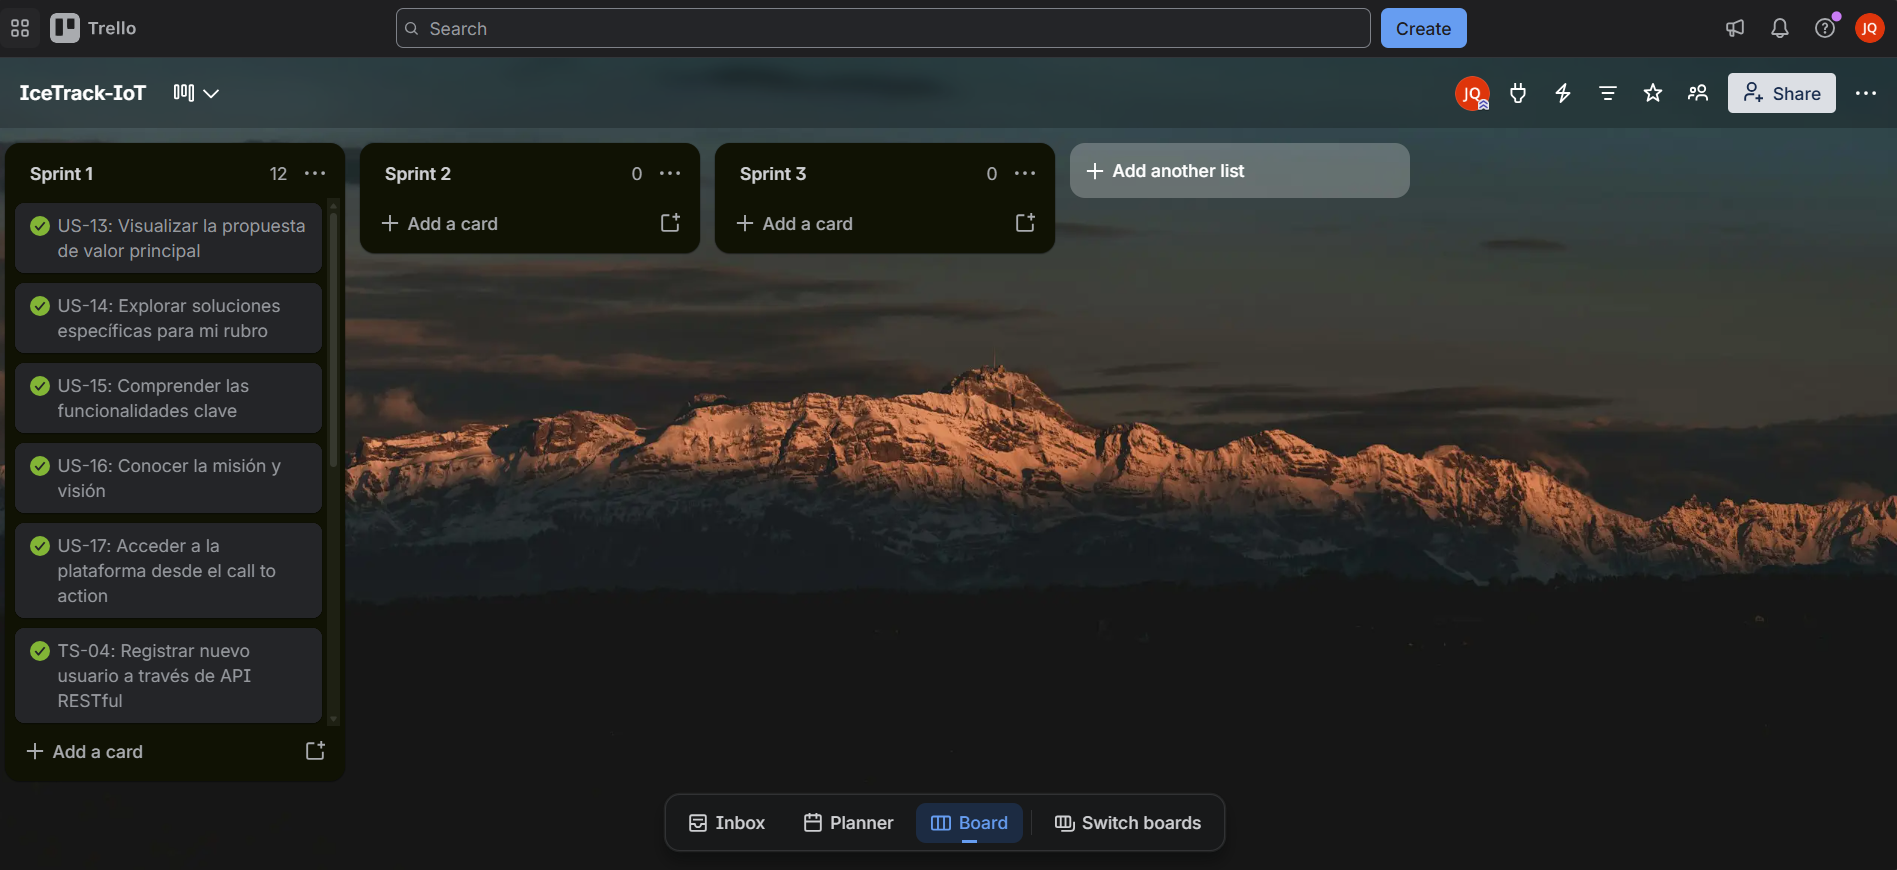
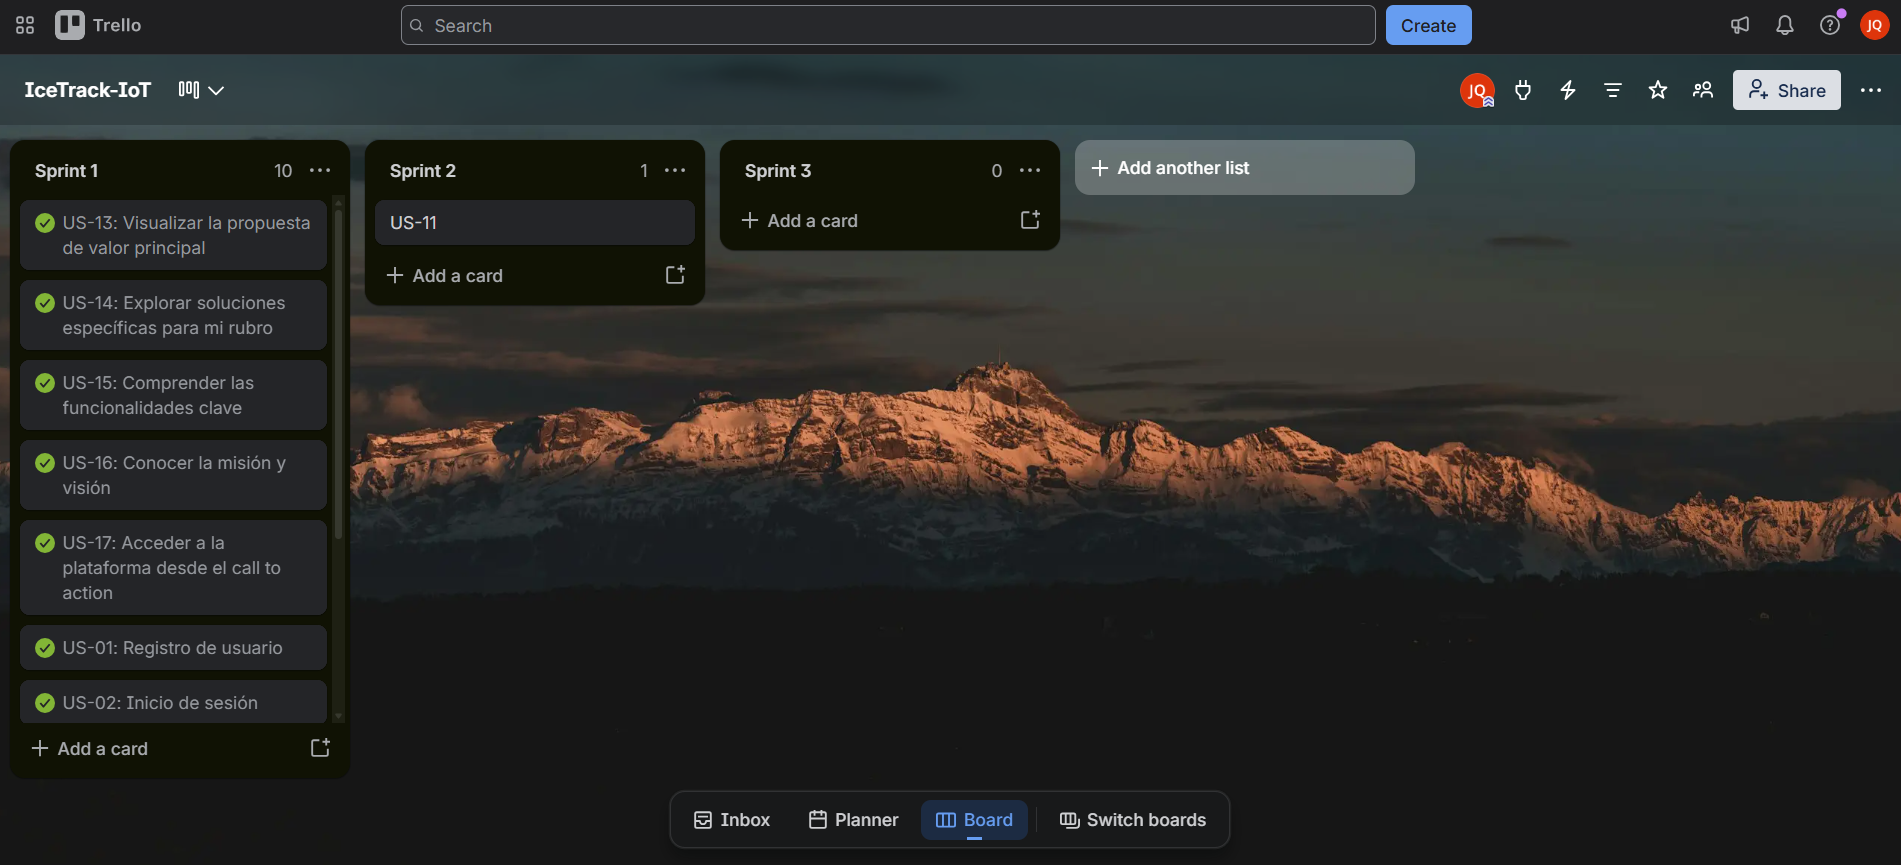
fix/sprint-backlog

diff --git a/README.md b/README.md
@@ -5779,7 +5779,7 @@ constexpr char DEVICE_ID[] = "ICE-0001";
 
 #### 6.2.1.1. Sprint Planning 1
 
-El Sprint Planning 1 es la reunión con la que el Scrum Team de IceTrack inicia su primer Sprint. Como punto de partida se usó el Product Backlog, del cual se tomaron los elementos de mayor prioridad que el equipo puede completar con su capacidad. El resultado de la reunión es un Sprint Goal compartido, medible y centrado en el valor para los usuarios, y el conjunto de User Stories y Technical Stories que lo hacen posible.
+El Sprint Planning 1 es la reunión con la que el Scrum Team de IceTrack inicia su primer Sprint. Como punto de partida se usó el Product Backlog, del cual se tomaron los elementos de mayor prioridad que el equipo puede completar con su capacidad. El resultado de la reunión es un Sprint Goal compartido, medible y centrado en el valor para los usuarios, y el conjunto de User Stories que lo hacen posible.
 
 Al ser el primer Sprint, el equipo no cuenta con un *Velocity* histórico. El *Velocity* del Sprint 1 se estableció a partir de la capacidad del equipo de siete integrantes y de la complejidad de los elementos priorizados, y será la referencia para calibrar la planificación de los siguientes Sprints.
 
@@ -5793,9 +5793,9 @@ Al ser el primer Sprint, el equipo no cuenta con un *Velocity* histórico. El *V
 | Sprint 0 Review Summary | No aplica. Sprint 1 es el primer Sprint de implementación, por lo que no existe un Sprint anterior que revisar. |
 | Sprint 0 Retrospective Summary | No aplica.  |
 | **Sprint Goal & User Stories** | |
-| Sprint 1 Goal | Nuestro enfoque está en ofrecer a los propietarios de negocios y técnicos de la cadena de frío que visitan IceTrack una visión clara del valor, las soluciones y las funcionalidades clave de la plataforma, con un acceso directo a las aplicaciones web y móvil; ofrecer a los desarrolladores frontend y móvil los primeros endpoints RESTful seguros para registrar usuarios y gestionar solicitudes de servicio, intervenciones y evaluaciones de servicio; y ofrecer a los propietarios y técnicos el primer flujo de acceso (registro e inicio de sesión) en la aplicación web. <br><br>Creemos que esto entrega mayor confianza a los visitantes para evaluar IceTrack en su operación de refrigeración; una base de API extensible sobre la cual los equipos de frontend y móvil puedan construir las funcionalidades de propietarios y técnicos de los próximos Sprints sin depender del equipo de backend; y un primer camino funcional para que los nuevos usuarios se registren e ingresen a la plataforma. <br><br> Esto se confirmará cuando un visitante pueda encontrar la propuesta de valor, las soluciones por tipo de negocio, las funcionalidades clave y la misión y visión en la Landing Page desplegada en Vercel, y llegar al inicio de sesión de la aplicación web o a la descarga de la aplicación móvil con un solo clic; los endpoints de usuarios, solicitudes de servicio (creación y consulta de estado), intervenciones y evaluaciones de servicio estén desplegados en Render, documentados en Swagger y respondan correctamente a sus escenarios de aceptación (respuestas 201, 400, 404 y 409); y un nuevo usuario pueda registrarse e iniciar sesión desde la aplicación web, consumiendo la API desplegada. |
-| Sprint 1 Velocity | 50 Story Points |
-| Sum of Story Points | 50 Story Points |
+| Sprint 1 Goal | Nuestro enfoque está en ofrecer a los propietarios de negocios de la cadena de frío que visitan IceTrack una visión clara del valor, las soluciones y las funcionalidades clave de la plataforma, con un acceso directo a las aplicaciones web y móvil; y construir en la aplicación web el primer recorrido funcional del propietario: registro e inicio de sesión, gestión de sitios y equipos, consulta y filtrado de activos y solicitud de servicios de mantenimiento. <br><br>Creemos que esto entrega mayor confianza a los visitantes para evaluar IceTrack en su operación de refrigeración y una base de interfaz sobre la cual seguir construyendo las funcionalidades del propietario en los próximos Sprints. <br><br> Esto se confirmará cuando un visitante pueda encontrar la propuesta de valor, las soluciones por tipo de negocio, las funcionalidades clave y la misión y visión en la Landing Page desplegada en Vercel, y llegar al inicio de sesión de la aplicación web o a la descarga de la aplicación móvil con un solo clic; y un propietario pueda registrarse, iniciar sesión, registrar sus sitios y equipos, consultar y filtrar sus activos y solicitar un servicio de mantenimiento desde la aplicación web. |
+| Sprint 1 Velocity | 40 Story Points |
+| Sum of Story Points | 40 Story Points |
 
 #### 6.2.1.2. Aspect Leaders and Collaborators
 
@@ -5813,7 +5813,7 @@ Para el Sprint 1 el equipo organizó el trabajo en de la siguiente manera:
 
 #### 6.2.1.3. Sprint Backlog 1
 
-El objetivo principal del **Sprint 1** consistió en consolidar la presencia digital del producto mediante el desarrollo completo de la **Landing Page** y en sentar las bases funcionales de la plataforma: los primeros servicios REST del Backend (registro de usuarios, solicitudes de servicio con consulta de estado, intervenciones y evaluaciones) y el primer flujo de registro e inicio de sesión en la aplicación web. Con ello se habilitó una base extensible sobre la API desplegada para que los equipos de Frontend y Móvil continúen construyendo en los siguientes Sprints.
+El objetivo principal del **Sprint 1** consistió en consolidar la presencia digital del producto mediante el desarrollo completo de la **Landing Page** y el flujo de la aplicación web. 
 
 | Sprint # | Sprint 1 |  |  |  |  |  |  |
 | --- | --- | --- | --- | --- | --- | --- | --- |
@@ -5824,13 +5824,13 @@ El objetivo principal del **Sprint 1** consistió en consolidar la presencia dig
 | US-15 | Comprender las funcionalidades clave | UT-L3 | Sección de funcionalidades clave | Presentar las funcionalidades principales de la plataforma en la Landing Page. | 3 | Julio Guillén | Done |
 | US-16 | Conocer la misión y visión | UT-L4 | Sección institucional (misión y visión) | Redactar y maquetar los apartados de misión y visión en la Landing Page. | 2 | Julio Guillén | Done |
 | US-17 | Acceder a la plataforma desde el call to action | UT-L5 | Vinculación de CTAs | Enlazar los botones de la Landing Page con el inicio de sesión web y la descarga móvil. | 2 | Walter Fajardo | Done |
-| TS-04 | Registrar nuevo usuario a través de API RESTful | UT-B1 | API de registro de usuarios | Implementar y validar el endpoint de registro de usuarios (unicidad y formato). | 5 | Piero Tenorio | Done |
-| TS-01 | Creación de solicitudes de servicio por API RESTful | UT-B2 | API de creación de solicitudes | Implementar el endpoint de creación de solicitudes de servicio. | 8 | Joaquin Cuentas | Done |
-| TS-05 | Consulta del estado de una solicitud por API | UT-B3 | API de consulta de solicitudes | Implementar el endpoint de consulta del estado de una solicitud de servicio. | 8 | Joaquin Cuentas | Done |
-| TS-02 | Registro de intervenciones técnicas por API RESTful | UT-B4 | API de intervenciones técnicas | Implementar el endpoint de registro de intervenciones realizadas. | 5 | Gianmarco Jiménez | Done |
-| TS-03 | Gestión de evaluaciones de servicio vía API | UT-B5 | API de evaluaciones de servicio | Implementar los endpoints para registrar y actualizar evaluaciones de servicio. | 5 | Gianmarco Jiménez | Done |
+| US-20 | Registrar y consultar sitios | UT-A3 | Módulo de sitios | Implementar el registro y el listado de sitios del propietario en la aplicación web. | 5 | Walter Fajardo | Done |
+| US-03 | Registrar y actualizar equipos de refrigeración | UT-A4 | Módulo de equipos | Implementar el registro y la actualización de equipos de refrigeración en la aplicación web. | 5 | Jeremy Quijada | Done |
+| US-18 | Consultar el listado y detalle de equipos | UT-A5 | Listado y detalle de equipos | Implementar la consulta del listado y el detalle de equipos en la aplicación web. | 3 | Gianmarco Jiménez | Done |
+| US-11 | Filtrar equipos por sitio, tipo y estado | UT-A6 | Filtros de equipos | Implementar el filtrado de equipos por sitio, tipo y estado en la aplicación web. | 3 | Gianmarco Jiménez | Done |
+| US-04 | Solicitar un servicio de mantenimiento o reparación | UT-A7 | Solicitud de servicio | Implementar el formulario de solicitud de servicio de mantenimiento en la aplicación web. | 5 | Walter Fajardo | Done |
 | US-01 | Registro de usuario | UT-A1 | Flujo de registro en la app web | Implementar el flujo de registro (propietario/técnico) en la aplicación web. | 5 | Jeremy Quijada | Done |
-| US-02 | Inicio de sesión | UT-A2 | Flujo de inicio de sesión en la app web | Implementar el flujo de inicio de sesión consumiendo la API en la aplicación web. | 3 | Jeremy Quijada | Done |
+| US-02 | Inicio de sesión | UT-A2 | Flujo de inicio de sesión en la app web | Implementar el flujo de inicio de sesión en la aplicación web. | 3 | Jeremy Quijada | Done |
 
 <p align="center">
   <img src="assets/chapter06/Trello-Sprint-1.png" alt="trello1" width="1000">
@@ -5861,41 +5861,6 @@ En esta sección se explica y presenta los avances en implementación con relaci
 | IceTrack-IoT/Frontend-IceTrack_IoT | master | bb45db8 | feat: Enhance environment configuration script to validate target file existence and improve googleClientId injection message |  | 09/10/2026 |
 | IceTrack-IoT/LandingPage-IceTrack_IoT | master | 962f690 | Initial commit |  | 06/10/2026 |
 | IceTrack-IoT/LandingPage-IceTrack_IoT | master | dec31f5 | fix: remove unnecessary URL from doctype declaration |  | 06/10/2026 |
-| IceTrack-IoT/Platform-IceTrack_IoT | master | c3ea69d | Add initial project |  | 22/09/2026 |
-| IceTrack-IoT/Platform-IceTrack_IoT | master | d0c49e8 | feat: Update application properties for environment variable support and add README.md |  | 22/09/2026 |
-| IceTrack-IoT/Platform-IceTrack_IoT | feat/iam | 2166b33 | feat: Implement ExternalProfileService and ProfilesContextFacade for profile provisioning |  | 28/09/2026 |
-| IceTrack-IoT/Platform-IceTrack_IoT | feat/iam | 80f2cff | feat: Enhance user and profile management with role handling and new commands |  | 28/09/2026 |
-| IceTrack-IoT/Platform-IceTrack_IoT | feat/iam | 087755a | feat: Introduce queries and commands for owner and technician profiles, including integration events and persistence entities |  | 28/09/2026 |
-| IceTrack-IoT/Platform-IceTrack_IoT | feat/iam | 8f1d5a5 | feat: Standardize JSON field naming to snake_case across registration and profile resources |  | 28/09/2026 |
-| IceTrack-IoT/Platform-IceTrack_IoT | feat/monitoring | b617bfa | feat: Adding the Monitoring and Alerting BC |  | 28/09/2026 |
-| IceTrack-IoT/Platform-IceTrack_IoT | feat/iam | 489e0f5 | feat: Extend UserResource with provider and external ID fields for enhanced user information |  | 29/09/2026 |
-| IceTrack-IoT/Platform-IceTrack_IoT | feat/iam | 5cfae04 | feat: Implement refresh token functionality with session management and current user retrieval |  | 29/09/2026 |
-| IceTrack-IoT/Platform-IceTrack_IoT | feat/iam | c567bc3 | feat: Add refresh token reuse grace period and purge scheduler for expired tokens |  | 29/09/2026 |
-| IceTrack-IoT/Platform-IceTrack_IoT | feat/iam | 17c34a5 | feat: Enhance refresh token handling with improved error responses and rotation logic |  | 01/10/2026 |
-| IceTrack-IoT/Platform-IceTrack_IoT | develop | 1194ea2 | Merge pull request #1 from IceTrack-IoT/feat/monitoring | feat: Adding the Monitoring and Alerting BC | 02/10/2026 |
-| IceTrack-IoT/Platform-IceTrack_IoT | feat/monitoring | 4a84f60 | docs: Adding documentation |  | 02/10/2026 |
-| IceTrack-IoT/Platform-IceTrack_IoT | feat/-assets-managment | 5bddb2e | feat/ v1 |  | 02/10/2026 |
-| IceTrack-IoT/Platform-IceTrack_IoT | feat/-assets-managment | 426f184 | fix: schemas |  | 02/10/2026 |
-| IceTrack-IoT/Platform-IceTrack_IoT | develop | 472d5be | Merge branch 'feat/iam' into develop |  | 02/10/2026 |
-| IceTrack-IoT/Platform-IceTrack_IoT | feat/notifications | 1af7d2b | feat: Adding the initial Notifications BC structure |  | 04/10/2026 |
-| IceTrack-IoT/Platform-IceTrack_IoT | feat/-assets-managment | 22ba818 | Merge remote-tracking branch 'origin/feat/monitoring' into feat/-assets-managment |  | 04/10/2026 |
-| IceTrack-IoT/Platform-IceTrack_IoT | feat/notifications | 8fddca2 | Merge branch 'feat/-assets-managment' into feat/notifications |  | 04/10/2026 |
-| IceTrack-IoT/Platform-IceTrack_IoT | feat/notifications | db809a1 | feat: Adding to and combining with other BC |  | 04/10/2026 |
-| IceTrack-IoT/Platform-IceTrack_IoT | feat/iam | 42c358b | refactor: Add provider field to user resources and enhance user profile handling |  | 06/10/2026 |
-| IceTrack-IoT/Platform-IceTrack_IoT | feat/iam | 8a6fb23 | feat: Update AuthenticatedUserResource to include provider field in response example |  | 06/10/2026 |
-| IceTrack-IoT/Platform-IceTrack_IoT | feat/iam | c793657 | fix: change the correct AuthenticatedUserResourceFromEntityAssembler |  | 06/10/2026 |
-| IceTrack-IoT/Platform-IceTrack_IoT | develop | e2f9aa2 | Merge branch 'feat/iam' into develop |  | 08/10/2026 |
-| IceTrack-IoT/Platform-IceTrack_IoT | develop | 0033deb | Merge branch 'feat/assets-managment' of https://github.com/IceTrack-IoT/Platform-IceTrack_IoT into develop | # Conflicts:<br># src/main/java/pe/edu/upc/ice/track/platform/profiles/application/acl/ProfilesContextFacadeImpl.java<br># src/main/java/pe/edu/upc/ice/track/platform/profiles/interfaces/acl/ProfilesContextFacade.java | 08/10/2026 |
-| IceTrack-IoT/Platform-IceTrack_IoT | develop | f9b197c | feat: add method to fetch owner ID by user ID in ProfilesContextFacade |  | 08/10/2026 |
-| IceTrack-IoT/Platform-IceTrack_IoT | develop | c5e22e1 | Merge branch 'feat/notifications' of https://github.com/IceTrack-IoT/Platform-IceTrack_IoT into develop |  | 08/10/2026 |
-| IceTrack-IoT/Platform-IceTrack_IoT | feat/iam | f48f44a | refactor: add username param to CompleteGoogleOwnerRegistrationResource and CompleteGoogleTechnicianRegistrationCommandFromResourceAssembler |  | 08/10/2026 |
-| IceTrack-IoT/Platform-IceTrack_IoT | develop | 126b935 | feat: Implement dashboard configs |  | 08/10/2026 |
-| IceTrack-IoT/Platform-IceTrack_IoT | develop | 06fe834 | refactor: Enhance params by IoT standards on temperature ranges |  | 08/10/2026 |
-| IceTrack-IoT/Platform-IceTrack_IoT | develop | cb978d4 | fix: Refactor Assets Bounded Context with not isolated self schema |  | 08/10/2026 |
-| IceTrack-IoT/Platform-IceTrack_IoT | develop | ad1d2a8 | refactor: Remove AddCard functionality and introduce layout update for dashboard cards |  | 08/10/2026 |
-| IceTrack-IoT/Platform-IceTrack_IoT | feat/profiles | 5e7a2ff | refactor: Update Docker Compose configurations for database service |  | 09/10/2026 |
-| IceTrack-IoT/Platform-IceTrack_IoT | feat/profiles | ae24f96 | refactor: Add volume configuration for PostgreSQL data persistence |  | 09/10/2026 |
-| IceTrack-IoT/Platform-IceTrack_IoT | feat/profiles | 717b598 | refactor: Update server port configuration and modify OpenAPI server URLs for production |  | 09/10/2026 |
 
 #### 6.2.1.5. Testing Suite Evidence for Sprint Review
 
